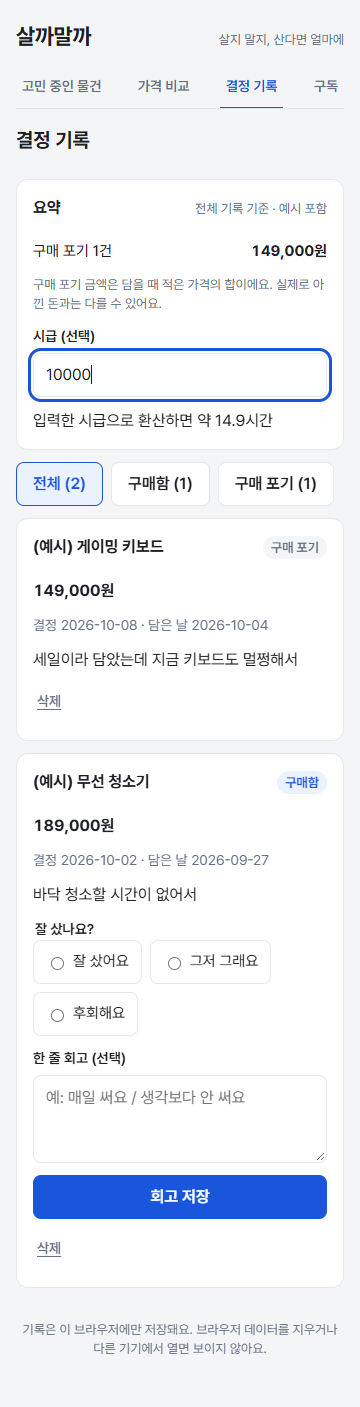
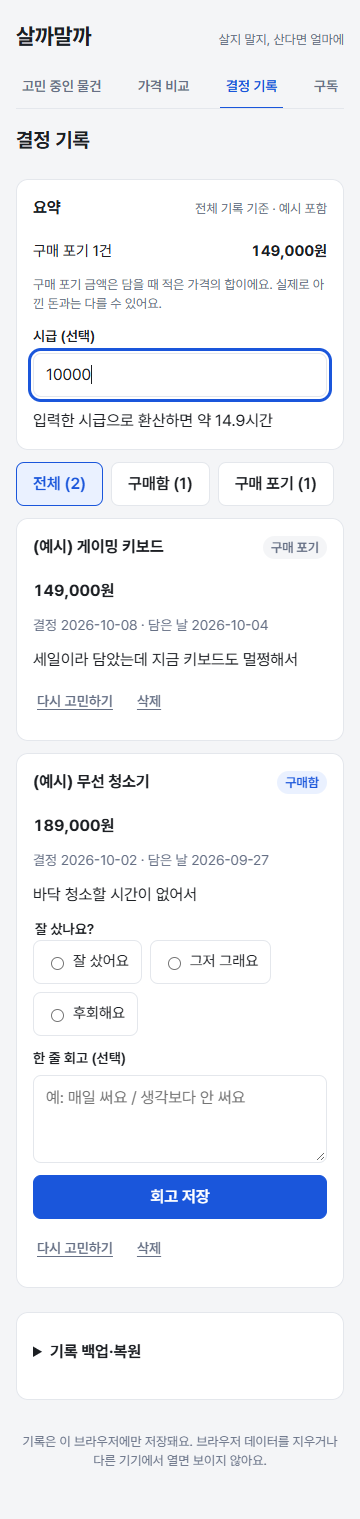
docs: update README, presentation, and demo script for the third set
- README: 3차 기능(사기 전 점검, 질문 6개, 되돌리기, 비교 결과 담기, 오늘 썼어요, 백업·복원), 테스트 359개, 검토 요약
- 발표 자료: 시연 1 그림을 사기 전 점검 카드로, 구독 사용량, PRD v0.14, 커밋 1·2·3차, 숫자 갱신
- 시연 순서: 3차 기능을 넣은 6분 구성(숫자는 리허설로 확인), 캡처 교체
- DEVLOG: 3차 문서 갱신 기록

diff --git a/docs/presentation/index.html b/docs/presentation/index.html
@@ -105,10 +105,11 @@
         </div>
         <table>
           <tr><th>화면</th><th>하는 일</th></tr>
-          <tr><td>고민 중인 물건</td><td>이유와 고민 기간을 담아 두고, 기간이 지나면 처음 적은 이유와 답을 다시 보여준 뒤 구매·포기를 기록</td></tr>
-          <tr><td>가격 비교</td><td>할인 비교(실제 결제액과 계산 근거) · 묶음상품 비교(단위당 가격과 총지출) · 무료배송 채우기(추가 전후 총지출)</td></tr>
-          <tr><td>결정 기록</td><td>필터, 구매 포기 금액과 시급 환산, 구매 7일 뒤 "잘 샀나요?"</td></tr>
-          <tr><td>구독</td><td>다음 결제일 D-n, 월·연 합계, 31일 이상 쓰지 않은 구독은 해지 후보</td></tr>
+          <tr><td>고민 중인 물건</td><td>이유·고민 기간·질문을 담아 두고, 사려고 할 때 "사기 전에 한 번 더"로 걸리는 점을 보여준 뒤 구매·포기를 기록(되돌리기 가능)</td></tr>
+          <tr><td>가격 비교</td><td>할인 비교 · 묶음상품 비교(단가·총지출 한 문장) · 무료배송 채우기, 결과를 고민 목록에 바로 담기</td></tr>
+          <tr><td>결정 기록</td><td>필터, 구매 포기 금액과 시급 환산, 구매 7일 뒤 "잘 샀나요?", 다시 고민하기</td></tr>
+          <tr><td>구독</td><td>다음 결제일 D-n, 월·연 합계, 해지 후보, 사용량으로 본 한 번에 드는 돈("오늘 썼어요"로 직접 기록)</td></tr>
+          <tr><td>백업·복원</td><td>서버 없이 기록을 파일로 옮기고 보관</td></tr>
         </table>
         <div class="footer"><span>살까말까 (Buy or Not)</span><span>3 / 16</span></div>
       </section>
@@ -120,15 +121,15 @@
           <div style="display:flex;flex-direction:column;gap:18px">
             <h2>담아 두고, 며칠 뒤 다시 묻는다</h2>
             <ul>
-              <li>상품명·가격·이유·고민 기간(1·3·7일, 직접 입력 1~30일)</li>
-              <li>담을 때 질문 3개(선택). 비슷한 물건을 전에 포기했다면 알림</li>
+              <li>상품명·가격·이유·고민 기간, 담을 때 질문 6개(선택)</li>
+              <li>비슷한 물건을 전에 포기했다면 알림</li>
               <li>정각부터 "재검토 가능" — 처음 적은 이유와 답을 다시 보여줌</li>
-              <li>더 고민하기(1·3·7일 연장) · 구매함/구매 포기(메모와 확인)</li>
-              <li>상품명 검색 링크 3곳(추천 아님) · 이 브라우저에만 저장</li>
+              <li>구매함을 누르면 "사기 전에 한 번 더": 내 기록에서 찾은 걸리는 점(단정하지 않음)</li>
+              <li>결정 직후 되돌리기 · 더 고민하기 · 검색 링크(추천 아님)</li>
             </ul>
-            <p class="small muted">시연: "예시 물건 넣기" → '게이밍 키보드' 입력 → 재검토 가능 카드에서 구매 포기 → 결정 기록</p>
+            <p class="small muted">시연: "예시 물건 넣기" → '게이밍 키보드' 입력 → 헤드폰 구매함(걸리는 점 2개) → 구매 포기 → 되돌리기</p>
           </div>
-          <div class="shot-wrap"><img class="shot" src="../screenshots/wishlist-360.png" alt="고민 중인 물건 화면" /></div>
+          <div class="shot-wrap"><img class="shot" src="../screenshots/impulse-check-360.png" alt="사기 전에 한 번 더 상자가 열린 고민 카드" /></div>
         </div>
         <div class="footer"><span>살까말까 (Buy or Not)</span><span>4 / 16</span></div>
       </section>
@@ -181,13 +182,13 @@
           <div style="display:flex;flex-direction:column;gap:18px">
             <h2>결정한 뒤에도 한 번 더 본다</h2>
             <ul>
-              <li>결정 기록 요약: 구매 포기 건수와 금액, 시급을 넣으면 "약 14.9시간"</li>
+              <li>결정 기록 요약: 구매 포기 금액, 시급을 넣으면 "약 14.9시간"</li>
               <li>구매 포기 금액은 담을 때 적은 가격의 합 — 아낀 돈이라 부르지 않음</li>
-              <li>구매하고 7일 뒤 "잘 샀나요?" (잘 샀어요 · 그저 그래요 · 후회해요)</li>
-              <li>구독: 다음 결제일 D-n, 31일 이상 안 쓰면 해지 후보, 월·연 합계</li>
-              <li>무료배송 채우기: 8,000원 더 담으면 배송비 3,000원 줄고 총지출 5,000원 늘어요</li>
+              <li>구매하고 7일 뒤 "잘 샀나요?", 잘못 결정했으면 다시 고민하기</li>
+              <li>구독: 해지 후보, 쿠팡 와우 한 달 1번이면 "1번에 7,890원", 오늘 썼어요로 기록</li>
+              <li>무료배송: 8,000원 더 담으면 배송비 3,000원 줄고 총지출 5,000원 늘어요</li>
             </ul>
-            <p class="small muted">시연: 결정 기록에서 시급 입력·회고 → 구독 화면 "예시 구독 넣기"</p>
+            <p class="small muted">시연: 결정 기록에서 시급 입력·회고 → 구독 "예시 구독 넣기" → 음악 스트리밍 "오늘 썼어요"</p>
           </div>
           <div class="shot-wrap"><img class="shot" src="../screenshots/subscriptions-360.png" alt="구독 화면" /></div>
         </div>
@@ -200,16 +201,16 @@
         <h2>범위를 먼저 좁히고, 검증 사례를 숫자로 적었다</h2>
         <div class="cols">
           <div class="card">
-            <h3>PRD v0.11</h3>
+            <h3>PRD v0.14</h3>
             <ul class="small">
-              <li>1차 P0: 고민 목록, 할인 비교, 묶음상품 비교, 로컬 저장·입력 검증·모바일</li>
+              <li>1차 P0: 고민 목록, 할인 비교, 묶음상품 비교, 저장·검증·모바일</li>
               <li>2차 F07~F14: 연장·메모·질문·비슷한 기록·필터·요약·회고·무료배송·구독</li>
-              <li>범위 밖: 로그인·서버, 가격 수집, 결제, AI 추천, 알림</li>
-              <li>검증 사례 AC01~AC28: 입력값과 기대 결과를 원·날짜 단위로 명시</li>
+              <li>3차 F15~F21(제작자 요청): 사기 전 점검·구독 사용량·되돌리기·백업 등</li>
+              <li>검증 사례 AC01~AC35: 입력값과 기대 결과를 원·날짜 단위로 명시</li>
             </ul>
           </div>
           <div class="card">
-            <h3>Todo 12단계 (10/11 ~ 10/17)</h3>
+            <h3>Todo 12단계 + 3차 추가 (10/11 ~ 10/17)</h3>
             <ul class="small">
               <li>1차: 1 뼈대·배포 → 2 묶음 → 3 할인 → 4 고민 목록·기록 → 5 문서 → 6 점검</li>
               <li>2차: 7 연장·메모·필터 → 8 무료배송 → 9 질문·알림 → 10 요약·회고 → 11 구독 → 12 통합 점검</li>
@@ -232,9 +233,9 @@
           <span class="step">Claude: 대조 후 반영 또는 반론</span>
         </div>
         <div class="cols-3">
-          <div class="card"><p class="num">275</p><p>자동 테스트(1차 115). 계산·시각 규칙은 순수 함수, 화면은 사용자 조작 기준. 화면은 실제 Chrome 캡처로 확인</p></div>
-          <div class="card"><p class="num">8회</p><p>GPT 검토(1차 5회·2차 3회). 후속 확인 2회. 지적 96건 중 90건 반영, 나머지는 근거를 들어 미반영·보류·제작자 결정</p></div>
-          <div class="card"><p class="num">11</p><p>코드 커밋(1차 5·2차 6), 문서 커밋은 따로. 단계마다 commit, 개발 기록(DEVLOG)에 요청·결과·오류·수정 이유</p></div>
+          <div class="card"><p class="num">359</p><p>자동 테스트(1차 115). 계산·시각 규칙은 순수 함수, 화면은 사용자 조작 기준. 화면은 실제 Chrome 캡처로 확인</p></div>
+          <div class="card"><p class="num">10회</p><p>GPT 검토(1차 5·2차 3·3차 2)와 후속 확인 3회. 지적 109건 중 102건 반영, 나머지는 근거를 들어 미반영·보류·제작자 결정</p></div>
+          <div class="card"><p class="num">16</p><p>코드 커밋(1차 5·2차 6·3차 5), 문서 커밋은 따로. 단계마다 commit, 개발 기록(DEVLOG)에 요청·결과·오류·수정 이유</p></div>
         </div>
         <div class="footer"><span>살까말까 (Buy or Not)</span><span>9 / 16</span></div>
       </section>
@@ -243,30 +244,40 @@
       <section class="slide">
         <p class="kicker">GitHub 이력</p>
         <h2>단계마다 쌓은 커밋</h2>
-        <div class="cols">
+        <div class="cols-3">
           <div class="card">
             <h3>1차 · 기본 기능</h3>
             <table class="mono">
-              <tr><td>429ca36</td><td>화면 뼈대, 배포 워크플로</td></tr>
-              <tr><td>fdef9bc</td><td>묶음 비교 + 1단계 검토 반영</td></tr>
+              <tr><td>429ca36</td><td>뼈대·배포</td></tr>
+              <tr><td>fdef9bc</td><td>묶음 비교</td></tr>
               <tr><td>9c6f6e4</td><td>할인 비교</td></tr>
-              <tr><td>437e534</td><td>고민 목록·기록 + 2·3단계 검토 반영</td></tr>
-              <tr><td>3855fdd</td><td>4단계 검토 반영</td></tr>
+              <tr><td>437e534</td><td>고민 목록·기록</td></tr>
+              <tr><td>3855fdd</td><td>검토 반영</td></tr>
             </table>
           </div>
           <div class="card">
             <h3>2차 · 확장</h3>
             <table class="mono">
-              <tr><td>50da3de</td><td>연장·결정 메모·필터</td></tr>
-              <tr><td>0270b46</td><td>무료배송 채우기</td></tr>
-              <tr><td>67d5cb2</td><td>질문·비슷한 기록·검색 링크</td></tr>
-              <tr><td>283b395</td><td>기록 요약·구매 후 회고</td></tr>
-              <tr><td>f9eee6b</td><td>구독 + 7~9단계 검토 반영</td></tr>
-              <tr><td>7a27176</td><td>10~11단계 검토 반영·여러 탭 보호</td></tr>
+              <tr><td>50da3de</td><td>연장·메모·필터</td></tr>
+              <tr><td>0270b46</td><td>무료배송</td></tr>
+              <tr><td>67d5cb2</td><td>질문·알림·링크</td></tr>
+              <tr><td>283b395</td><td>요약·회고</td></tr>
+              <tr><td>f9eee6b</td><td>구독</td></tr>
+              <tr><td>7a27176</td><td>여러 탭 보호</td></tr>
+            </table>
+          </div>
+          <div class="card">
+            <h3>3차 · 제작자 요청</h3>
+            <table class="mono">
+              <tr><td>d2c7fcb</td><td>용어 '고민'</td></tr>
+              <tr><td>1d81e20</td><td>사기 전 점검</td></tr>
+              <tr><td>bcea9e3</td><td>되돌리기·사용 기록</td></tr>
+              <tr><td>62486a6</td><td>백업·비교 담기</td></tr>
+              <tr><td>0cb2257</td><td>검토 반영</td></tr>
             </table>
           </div>
         </div>
-        <p class="small muted">문서 커밋(PRD·README·발표 자료)은 따로. main에 push하면 GitHub Actions가 테스트 → 빌드 → GitHub Pages 배포. 저장소는 Public.</p>
+        <p class="small muted">문서 커밋(PRD·README·발표 자료)은 따로. main에 push하면 GitHub Actions가 테스트 → 빌드 → GitHub Pages 배포.</p>
         <div class="footer"><span>살까말까 (Buy or Not)</span><span>10 / 16</span></div>
       </section>
 
@@ -337,7 +348,7 @@
             <ul class="small">
               <li>화면 뼈대와 배포·테스트 설정이 한 단계에 나왔다 (커밋 시각 기준 17분)</li>
               <li>테스트를 먼저 쓰게 하면 AI 코드의 오류를 그 자리에서 잡는다</li>
-              <li>두 AI가 역할을 나누니 서로의 실수를 짚는다 (검토 지적 96건)</li>
+              <li>두 AI가 역할을 나누니 서로의 실수를 짚는다 (검토 지적 109건)</li>
               <li>검증 사례를 테스트로 옮기면 계획서 모순도 드러난다 (AC21·AC27)</li>
               <li>요청·결과·수정 이유가 DEVLOG에 그대로 남는다</li>
             </ul>
@@ -361,7 +372,7 @@
         <p class="kicker">개선이 필요한 점</p>
         <h2>아직 하지 않은 것</h2>
         <div class="cols-3">
-          <div class="card"><h3>기능</h3><p class="small">알림(고민 기간 종료·구독 결제일), 기기 간 동기화, 두 탭이 거의 동시에 저장할 때의 잠금(드물어서 넣지 않음), 통계</p></div>
+          <div class="card"><h3>기능</h3><p class="small">알림(고민 기간 종료·구독 결제일), 기기 간 자동 동기화(지금은 백업 파일), 구독 사용량 자동 연동(휴대폰 앱 필요, 아이폰은 제약), 가격 수첩·필요한 양 기준 비교</p></div>
           <div class="card"><h3>검증</h3><p class="small">실제 절약이나 충동구매 감소 효과는 사용 기록을 모은 뒤 판단. 스크린리더 실사용 검증은 하지 않음. 비슷한 이름 판정은 뒤에 붙는 색상·모델을 놓침</p></div>
           <div class="card"><h3>계산 범위</h3><p class="small">쿠폰은 안마다 하나, 카드 할인·포인트·복합 쿠폰 없음. 배송비는 사용자가 확인한 값만</p></div>
         </div>
@@ -373,7 +384,7 @@
       <section class="slide center">
         <p class="kicker">결론</p>
         <h2>필요한 소비인지 생각하고, 구매 조건을 비교하고, 결정한 뒤에도 돌아보도록 돕는 작은 웹 도구를 만들었다</h2>
-        <p class="lead">고민 목록 · 가격 비교 3가지 · 결정 기록 · 구독 — 자동 테스트 275개와 화면 캡처로 검증 사례 28개를 확인했다. 효과는 사용 기록을 모은 뒤 판단한다</p>
+        <p class="lead">고민 목록 · 가격 비교 3가지 · 결정 기록 · 구독 — 자동 테스트 359개와 화면 캡처로 검증 사례 35개를 확인했다. 효과는 사용 기록을 모은 뒤 판단한다</p>
         <p class="muted">lumos0107.github.io/BuyorNot · github.com/lumos0107/BuyorNot</p>
         <div class="footer"><span>살까말까 (Buy or Not)</span><span>16 / 16</span></div>
       </section>

diff --git a/docs/presentation/시연_순서.md b/docs/presentation/시연_순서.md
@@ -3,42 +3,38 @@
 발표 자료: [index.html](index.html) (브라우저로 열고 ← → 방향키로 넘긴다)
 시연 주소: https://lumos0107.github.io/BuyorNot/ (스마트폰 또는 PC 브라우저의 모바일 보기, 360px)
 
-시연 전에 브라우저의 사이트 데이터를 지워 빈 상태에서 시작한다. 전체 5분 안에 끝낸다. 시간이 모자라면 ★ 표시 단계는 건너뛴다.
+시연 전에 브라우저의 사이트 데이터를 지워 빈 상태에서 시작한다. 전체 6분 안에 끝낸다. 시간이 모자라면 ★ 표시 단계는 건너뛴다.
 
-## 1. 고민 목록 (1분 20초)
+## 1. 고민 목록 (1분 40초)
 
 1. 첫 화면에서 **예시 물건 넣기**를 누른다. → 재검토 가능 1개("(예시) 무선 헤드폰"), 고민 중 1개("(예시) 접이식 건조대")가 보인다. 구매 포기·구매함 예시는 결정 기록에 들어간다.
 2. 상품명 칸에 **게이밍 키보드**를 입력한다. → 폼 아래 "3일 전에 '(예시) 게이밍 키보드'를 구매 포기했어요". 입력을 지운다.
-3. "(예시) 무선 헤드폰" 카드에서 **처음 적은 이유**, "아직 필요한가요?", **비교해 볼 곳**(상품명 검색, 추천 아님, 새 창)을 보여준다.
-4. ★ "(예시) 접이식 건조대" 카드에서 **더 고민하기 → 3일 더**를 누른다. → "10일 고민 · 1번 연장".
-5. 헤드폰 카드에서 **구매 포기**를 누르고 메모에 "쓰던 유선 이어폰을 고쳐 씀"을 적은 뒤 **구매 포기 확인**. → 카드가 사라진다.
+3. "(예시) 무선 헤드폰" 카드에서 처음 적은 이유와 담을 때 답한 것(지금 쓰는 게 있어요 · 한 달 뒤에도 쓸지: 모르겠어요), **비교해 볼 곳**(상품명 검색, 추천 아님)을 보여준다.
+4. 헤드폰 카드에서 **구매함**을 누른다. → "사기 전에 한 번 더 · 걸리는 점 2개"와 "한 번 생각해 볼 질문". **취소**한다.
+5. **구매 포기**를 누르고 메모에 "쓰던 유선 이어폰을 고쳐 씀"을 적은 뒤 **구매 포기 확인**. → 제목 아래 "‘(예시) 무선 헤드폰’을 구매 포기로 옮겼어요. 되돌리기".
+6. ★ **되돌리기**를 누르면 카드가 돌아온다. 다시 구매 포기한다.
 
-말할 것: "고민 중에도 결정할 수 있어요. 기간이 지나면 재검토 가능 표시만 바뀌고, 구매·포기는 직접 골라요. 비슷한 물건을 전에 포기했다면 알려 줘요."
+말할 것: "사려고 할 때 '충동구매예요'라고 단정하지 않고, 내 기록에서 찾은 근거만 보여줘요. 답하지 않은 질문은 걸리는 점으로 세지 않고 생각해 볼 질문으로 따로 보여줘요."
 
 ## 2. 결정 기록 (50초)
 
-1. **결정 기록** 메뉴 → 요약 "구매 포기 2건 278,000원"(예시 키보드 + 방금 포기한 헤드폰)과 "실제로 아낀 돈과는 다를 수 있어요" 안내를 보여준다.
+1. **결정 기록** 메뉴 → 요약 "구매 포기 2건 278,000원"과 "실제로 아낀 돈과는 다를 수 있어요" 안내를 보여준다.
 2. 시급 칸에 **10000**을 넣는다. → "입력한 시급으로 환산하면 약 27.8시간".
 3. "(예시) 무선 청소기"(9일 전 구매) 카드의 "잘 샀나요?"에서 **그저 그래요 → 회고 저장**. → 요약에 "회고 1건 중 후회 0건".
-4. ★ 필터 **구매 포기 (2)**를 누른다. → 포기 기록 2개, 헤드폰 카드에 방금 쓴 결정 메모.
-5. 새로고침한다. → 기록이 그대로 남아 있다. (localStorage)
-
-말할 것: "구매 포기 금액은 담을 때 적은 가격의 합이라 절약액이라고 부르지 않아요. 산 물건은 일주일 뒤에 잘 샀는지 물어요."
+4. ★ 같은 카드의 **다시 고민하기**를 보여 주고 취소한다(잘못 결정한 기록을 되돌리는 기능).
 
 ## 3. 할인 비교 (40초)
 
 1. **가격 비교** 메뉴 → 할인 비교 탭에서 **예시 넣기**를 누른다.
-2. 결과: A안 73,000원, B안 72,000원, "B안이 1,000원 저렴해요".
-3. 계산 근거를 읽는다: 80,000 × 15% = 12,000 → 최대 할인 10,000 적용 → 80,000 − 10,000 + 3,000.
-4. ★ A안의 **최소 주문액**에 100000을 넣는다. → "쿠폰 적용 불가 · 최소 주문액까지 20,000원 부족", 결제액 83,000원.
+2. 결과: A안 73,000원, B안 72,000원, "B안이 1,000원 저렴해요". 계산 근거를 읽는다.
+3. ★ **B안으로 담기**를 누른다. → 고민 중인 물건으로 넘어가 가격 72000과 이유 "가격 비교: B안 결제액 72,000원 (할인 8,000원 · 배송비 포함)"이 채워지고 상품명에 커서가 간다. 다시 가격 비교로 돌아온다.
 
 말할 것: "할인율은 0.01% 단위 정수로 계산해서 9,900원 × 41%가 4,058원이 아니라 4,059원으로 정확히 나와요."
 
 ## 4. 묶음상품 비교 (30초)
 
 1. 묶음상품 비교 탭에서 **예시 넣기**를 누른다.
-2. 결과: 100mL당 333.33원 vs 360.00원, "상품 A가 단가 7.4% 낮아요", "총지출은 상품 A가 600원 더 커요".
-3. ★ 상품 B의 단위를 **g**으로 바꾼다. → "부피와 무게는 비교할 수 없어요".
+2. 결과: 100mL당 333.33원 vs 360.00원, "상품 A가 단가 7.4% 낮아요", "단가는 상품 A가 낮지만, 총지출은 상품 B가 600원 적어요".
 
 ## 5. 무료배송 채우기 (30초)
 
@@ -47,22 +43,24 @@
 
 말할 것: "단가가 낮다고, 무료배송이 된다고 사라고 하지 않아요. 총지출을 같이 보여주고, 필요한지는 직접 판단하라고 적어 둬요."
 
-## 6. 구독 (40초)
+## 6. 구독 (1분)
 
 1. **구독** 메뉴 → **예시 구독 넣기**를 누른다.
-2. 요약: 월 34,400원, 연 412,800원, "해지 후보 1개 · 월 10,900원".
-3. "(예시) 음악 스트리밍" 카드: "해지 후보", "사용 기록 없음", 다음 결제 D-n. 목록은 결제일이 가까운 순서다.
+2. 요약: 월 46,280원, 연 555,360원, "해지 후보 1개 · 월 10,900원".
+3. "(예시) 쿠팡 와우 멤버십" 카드: "사용량(예시): 최근 30일 1번 사용 · 1번에 약 7,890원". 최근에 써서 해지 후보는 아니지만 한 번에 드는 돈이 크다.
+4. "(예시) 음악 스트리밍" 카드의 **오늘 썼어요**를 누른다. → 마지막 사용이 오늘이 되고 해지 후보에서 빠지며 "사용량(직접 기록)"으로 바뀐다.
 
-말할 것: "알림은 보내지 않고, 화면에서 다음 결제일과 오래 안 쓴 구독을 보여줘요."
+말할 것: "웹사이트는 휴대폰의 스크린 타임을 읽을 수 없어서, 지금은 직접 기록하고 예시 구독에만 예시 숫자를 보여줘요. 휴대폰 앱으로 만들면 안드로이드는 사용 시간을 가져올 수 있고, 아이폰은 제약이 커요."
 
-## 7. 마무리 (20초)
+## 7. 마무리 (30초)
 
+- ★ 화면 맨 아래 **기록 백업·복원**을 펼쳐 백업 파일 받기를 보여준다(서버 없이 기록을 옮기는 방법).
 - GitHub 저장소의 커밋 목록과 Actions 배포 기록을 한 번 보여준다.
 - DEVLOG의 "총지출 방향 버그"와 "AC27 계획서 모순"(11단계) 항목을 가리킨다.
 
 ## 막혔을 때
 
 - 배포 링크가 안 열리면: `npm run build && npm run preview` 후 http://localhost:4173/BuyorNot/
-- 예시 데이터가 이미 있으면: 카드의 **삭제 → 지우기**로 지우거나 브라우저 사이트 데이터 삭제
+- 예시 데이터가 이미 있으면: 제목 아래 **예시만 지우기**(구독은 **예시 구독만 지우기**)로 지우거나 브라우저 사이트 데이터 삭제
 - 화면이 PC 폭이면: 개발자 도구(F12) → 기기 툴바에서 360px로
 - 날짜에 따라 D-n과 "n일 전"은 달라진다. 예시 데이터는 넣는 날을 기준으로 만들어지므로 순서와 상태는 같다.
